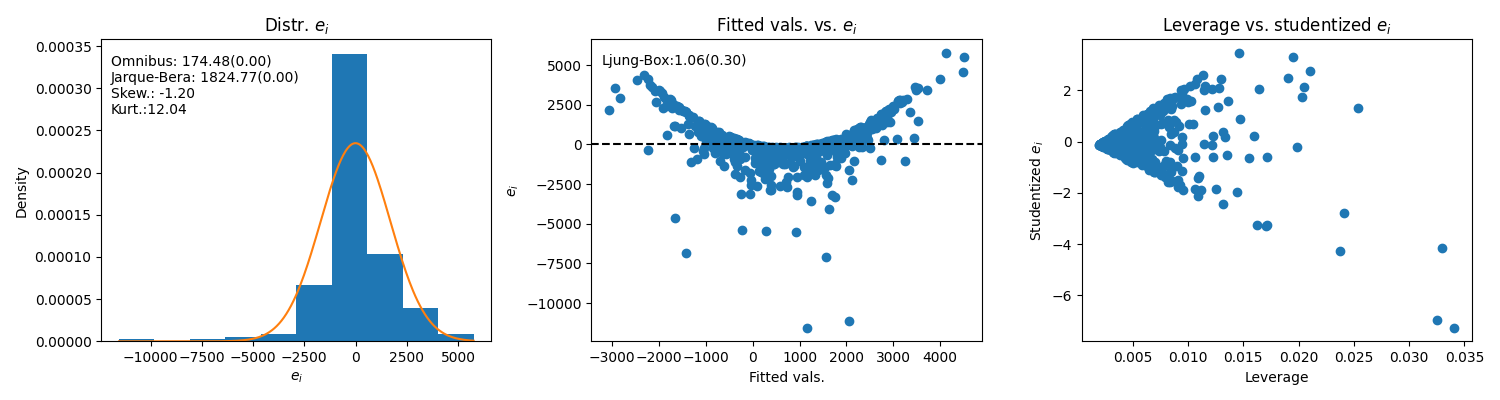
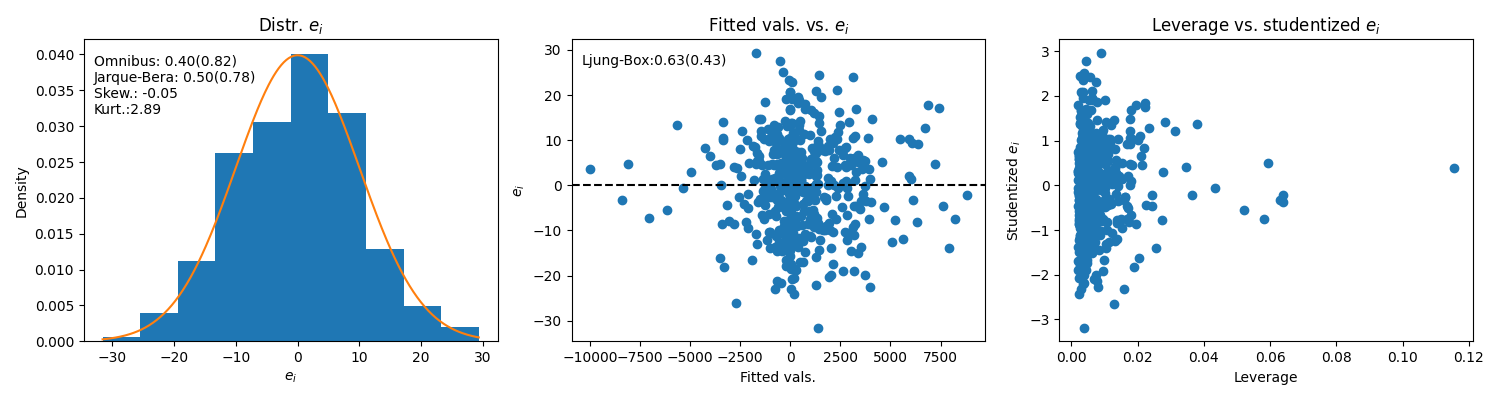
update

diff --git a/mlr.py b/mlr.py
@@ -16,7 +16,7 @@ from statsmodels.stats.outliers_influence import OLSInfluence
 
 class MLR:
 
-    def __init__(self, pop_size, sample_size, sigma_epsilon, beta):
+    def basic_model(self, pop_size, sample_size, sigma_epsilon, beta):
         self.pop_size = pop_size
         self.sample_size = sample_size
         self.sigma_epsilon = sigma_epsilon
@@ -24,18 +24,13 @@ class MLR:
         self.beta = np.array(beta)        
         self.p = len(self.beta) - 1
 
-    def make_X(self):
         self.X = np.random.normal(20, 10, (self.pop_size, self.p))
         self.X = sm.add_constant(self.X)
-
-    def make_y(self):
         self.y = self.X@self.beta + self.epsilon
 
-    def make_X_y_sample(self):
         idx_sample = np.random.randint(low=0, high=len(self.X), size=self.sample_size)
         self.X_sample, self.y_sample = self.X[idx_sample], self.y[idx_sample]
 
-    def make_models(self):
         self.model_pop = sm.OLS(self.y, self.X)
         self.model_pop = self.model_pop.fit()
         self.y_hat_pop = self.model_pop.predict(self.X)
@@ -44,6 +39,12 @@ class MLR:
         self.model_sample = self.model_sample.fit()
         self.y_hat_sample = self.model_sample.predict(self.X_sample)
         self.beta_hat = self.model_sample.params 
+
+        self.plot_population_vs_sample()
+        self.compute_residuals_stats()
+        self.print_rss_relative_to_y_mean()
+        self.compute_diagnostics()
+        self.plot_diagnostics(filename='mlr_distr_ei.png')
 
     def plot_population_vs_sample(self):
         fig, ax = plt.subplots()
@@ -56,6 +57,52 @@ class MLR:
         ax.set_ylabel('y pred')
         ax.set_xlabel('y obs')
         plt.savefig('mlr_pop_vs_sample.png')
+
+    def model_with_interaction(self, filename):
+        n = 500
+        beta = [1.3, 2.4, 4.2, 4.1]
+        X1 = np.random.normal(10, 20, n)
+        X2 = np.random.normal(10, 20, n)
+        X1X2 = X1*X2
+        y = beta[0] + beta[1]*X1 + beta[2]*X2 + beta[3]*X1X2 + np.random.normal(0, 10, n)
+        X_with_interaction = np.column_stack([X1, X2, X1X2])
+        X_with_interaction = sm.add_constant(X_with_interaction)
+        X_no_interaction = np.column_stack([X1, X2])
+        X_no_interaction = sm.add_constant(X_no_interaction)        
+
+        self.model_sample = sm.OLS(y, X_with_interaction)
+        self.model_sample = self.model_sample.fit()
+        self.y_hat = self.model_sample.predict(X_with_interaction)
+
+        print(self.model_sample.summary())
+        self.compute_residuals_stats()
+        self.compute_diagnostics()
+        self.plot_diagnostics(filename)
+
+    def model_with_categorical_predictors(self, filename_scatterplot, filename_diagnostics):
+        n = 500
+        sigma_epsilon = 80
+        epsilon = np.random.normal(0, sigma_epsilon, n)
+        beta = np.array([1.4, 3.4, 230.4])
+        X1 = np.random.normal(20, 50, n)
+        X2 = np.random.choice([0, 1], n)
+        X = sm.add_constant(np.column_stack([X1, X2]))
+        y = X@beta + epsilon
+
+        self.model_sample = sm.OLS(y, X)
+        self.model_sample = self.model_sample.fit()
+        self.y_hat = self.model_sample.predict(X)
+
+        print(self.model_sample.summary())
+        self.compute_residuals_stats()
+        self.compute_diagnostics()
+        self.plot_diagnostics(filename_diagnostics)
+
+        fig, ax = plt.subplots()
+        ax.scatter(X[:, 1], y, edgecolors=np.where(X[:, 2]==1, 'black', 'red'), s=20, facecolor='None')
+        for i in np.unique(X[:, 2]):
+            ax.plot(X[:, 1][X[:, 2] == i], self.y_hat[X[:, 2] == i], color='black' if i==1 else 'red')
+        plt.savefig(filename_scatterplot)
 
     def compute_residuals_stats(self):
         self.e_i = self.model_sample.resid
@@ -103,49 +150,10 @@ class MLR:
         plt.tight_layout()
         plt.savefig(filename)
 
-
-    def run(self):
-        self.make_X()
-        self.make_y()
-        self.make_X_y_sample()
-        self.make_models()
-        self.plot_population_vs_sample()
-        self.compute_residuals_stats()
-        self.print_rss_relative_to_y_mean()
-        self.compute_diagnostics()
-        self.plot_diagnostics(filename='mlr_distr_ei.png')
-
-    def model_with_interaction(self):
-        n = 500
-        beta = [1.3, 2.4, 4.2, 4.1]
-        X1 = np.random.normal(10, 20, n)
-        X2 = np.random.normal(10, 20, n)
-        X1X2 = X1*X2
-        y = beta[0] + beta[1]*X1 + beta[2]*X2 + beta[3]*X1X2 + np.random.normal(0, 10, n)
-        X_with_interaction = np.column_stack([X1, X2, X1X2])
-        X_with_interaction = sm.add_constant(X_with_interaction)
-        X_no_interaction = np.column_stack([X1, X2])
-        X_no_interaction = sm.add_constant(X_no_interaction)        
-
-        self.model_sample = sm.OLS(y, X_with_interaction)
-        self.model_sample = self.model_sample.fit()
-        self.y_hat = self.model_sample.predict(X_with_interaction)
-        self.compute_residuals_stats()
-        self.compute_diagnostics()
-        self.plot_diagnostics('mlr_distr_ei_with_interaction.png')
-
-
-    def model_with_categorical_predictors(self):
-        n = 500
-        X1 = np.random.normal(20, 50, n)
-        X2 = np.random.normal(40, 60, n)
-        X3 = np.random.choice([0, 1], n)
-
-        print(X3)
-
-
 if __name__ == '__main__':
-    mlr = MLR(1000, 200, 20, [1.44, 2.43, 3.32])
-    mlr.model_with_categorical_predictors()
+    mlr = MLR()
+    #mlr.basic_model(1000, 300, 10, [10.3, 5.4, -6.78])
+    #mlr.model_with_interaction('mlr_distr_ei_missing_interaction.png')
+    mlr.model_with_categorical_predictors('mlr_scatterplot_with_categorical.png', 'mlr_diagnostics_with_categorical.png')
 
 

diff --git a/README.md b/README.md
@@ -160,11 +160,24 @@ $y = \beta_0 + \beta_1X_1 + \beta_2X_2 + \beta_3X_1X_2 +  + \epsilon$
 
 we get the more familiar form for MLR with interaction. If it's significant, the interaction term $\beta_3$ in this example model is interpreted as the average increase in the effect of $X_1$ on $y$ by unit increase in $X_2$.
 
-Interestingly, it can happen that the interaction term is significant but not the two associated main effects. In that case, the 'hierarchical principle' indicates those non-significant main effects should still be kept in the model. The rationale is: if the interaction exists, whether main effects are zero or not is irrelevant, because those factors must be present for an interaction to take place at all. Also, those main effects are likely correlated with the interaction term, so leaving them out makes no sense.
+Interestingly, it can happen that the interaction term is significant but not the two associated main effects. In that case, the 'hierarchical principle' indicates those non-significant main effects should still be kept in the model. The rationale is: if the interaction exists, whether main effects are zero or not is irrelevant because those factors must be present for an interaction to take place at all. Also, those main effects are likely correlated with the interaction term, so leaving them out makes no sense.
 
-### Interaction with qualitative terms
+### Interaction with binary qualitative terms
 
+This particular setup is very useful, namely in situations where we're studying the relationship of $y$ with an $X$ that has quantitative and binary (qualitative) columns. The binary fields act as 'switches' that split the regression line into several (because their regression coefficient will be multiplied by either 0 or 1) and the interaction between the quantitative $X_j$ and the binary $X_j$ determines which slope each of those separate regression lines will have (because the 0/1 fields switch the additional slope terms 'on' and 'off'). This can be illustrated with an example using one quantitative ($x_1$) and one binary ($x_2$) regressor. Our model would be:
 
+$y = \beta_0 + \beta1x_1 + \beta_2x2 + \beta_3x_1x_2$
+
+Since $x_2$ only takes on values 0 or 1, the model can be written as:
+
+$
+y = \begin{cases}
+(\beta_0 + \beta_2) + (\beta_1 + \beta_3)x_1 + \epsilon & \text{if } x_2 = 1, \\
+\beta_0 + \beta_1x_1 + \epsilon & \text{if } x_2 = 0,
+\end{cases}
+$
+
+That way, the regression equation for $x_2 = 1$ has intercept $\beta_0 + \beta_2$ and slope $\beta_1 + \beta_3$, while the corresponding intercept and slope for $x_2 = 0$ are $\beta_0$ and $\beta_1$. This means that the line for $x_2=1$ lies higher (assuming $\beta_2$ is positive) and has a steeper slope (assuming $\beta_3$ is positive) than the line for $x_2=0$. 
 
 
 ### Collinearity
